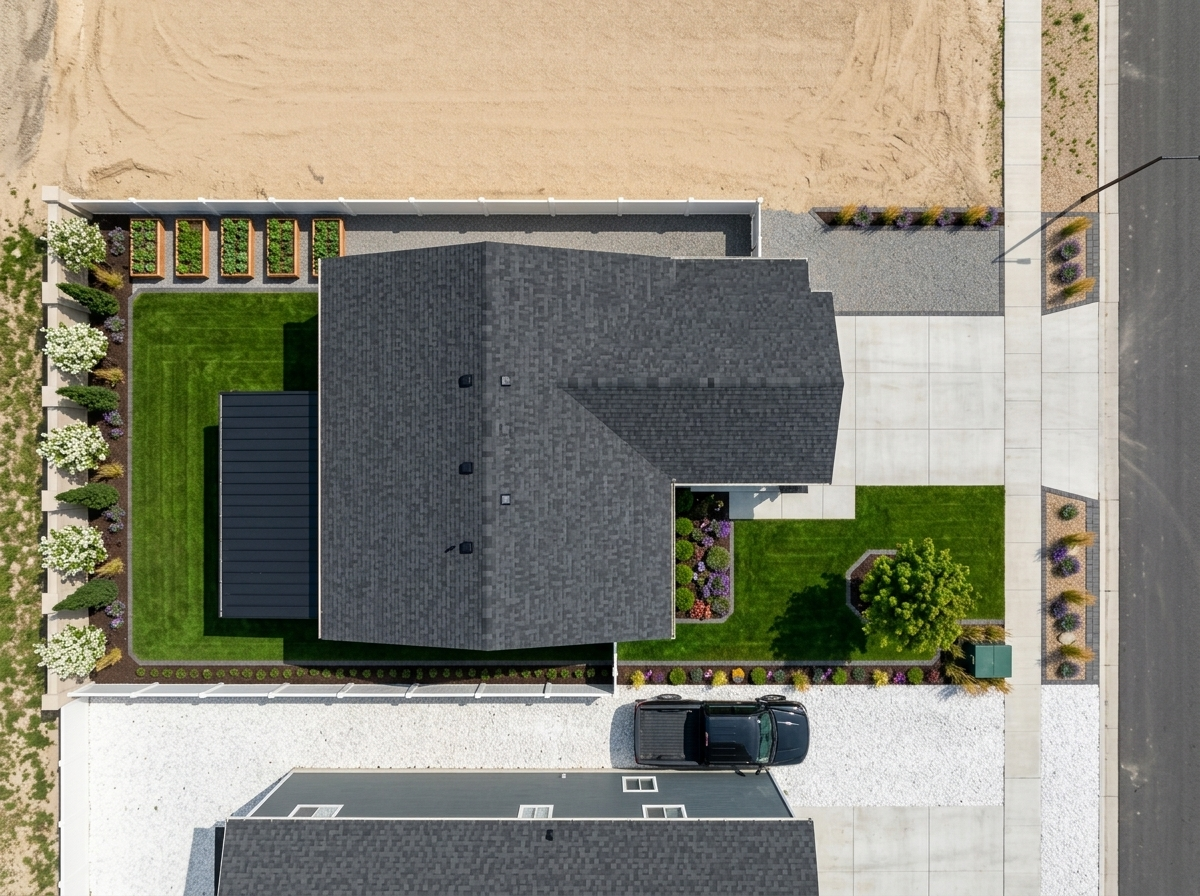
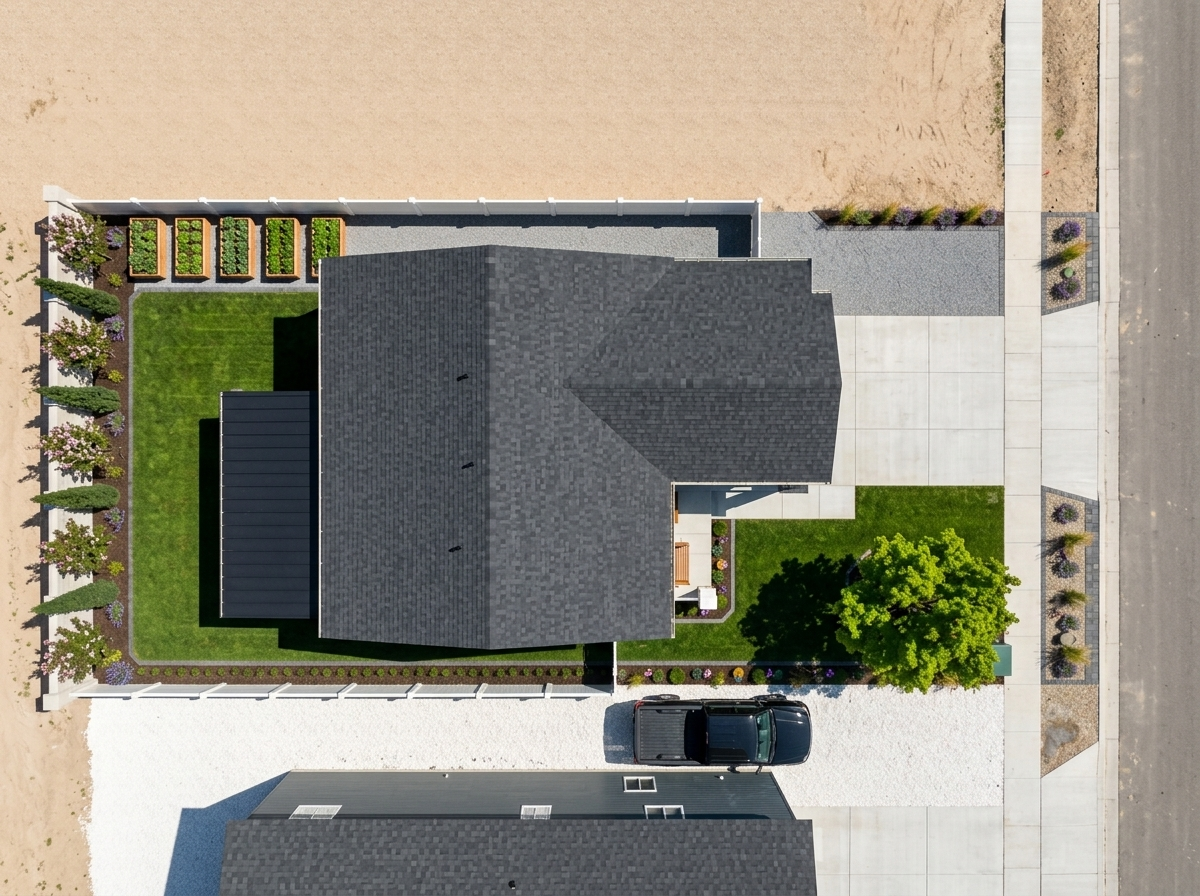
Refine Phase 4 Renders #12 and #14 (unified mulch bed, grey limestone road base, remove streetlamp, expose porch sidewalk)

diff --git a/model_3d_3152.html b/model_3d_3152.html
@@ -1836,31 +1836,6 @@
       addBox(g, 106.7, 30.5, 108.7, 88.0, 0.0, 0.42, MAT.concrete, true, true);
       // East Street Asphalt Roadway (wx: 108.7..146.0 — completely clear of the 6.0' park strips at wx=100.7..106.7!)
       addBox(g, 108.7, -36.0, 146.0, 88.0, -0.02, 0.06, MAT.asphalt, false, true);
-
-      // Architectural Neighborhood Streetlamp at NE Street Corner (wx = 105.2', wy = -1.5') — Illuminates Street at Sunset & Night!
-      {
-        const poleGrp = new THREE.Group();
-        poleGrp.position.set(105.2, 0, -1.5);
-        const pole = new THREE.Mesh(new THREE.CylinderGeometry(0.14, 0.24, 16.5, 12), MAT.simpsonHardware);
-        pole.position.set(0, 8.25, 0);
-        pole.castShadow = true;
-        poleGrp.add(pole);
-        const mastArm = new THREE.Mesh(new THREE.CylinderGeometry(0.08, 0.11, 4.5, 8), MAT.simpsonHardware);
-        mastArm.position.set(2.0, 16.2, 0);
-        mastArm.rotation.z = -Math.PI / 2.2;
-        poleGrp.add(mastArm);
-        const luminaire = new THREE.Mesh(new THREE.BoxGeometry(1.1, 0.22, 0.55), MAT.simpsonHardware);
-        luminaire.position.set(4.1, 16.4, 0);
-        poleGrp.add(luminaire);
-        const streetLens = new THREE.Mesh(new THREE.BoxGeometry(0.85, 0.08, 0.42), MAT.archBulb);
-        streetLens.position.set(4.1, 16.28, 0);
-        poleGrp.add(streetLens);
-        const streetLight = new THREE.PointLight('#fde047', 0.0, 38, 1.4);
-        streetLight.position.set(4.1, 15.6, 0);
-        poleGrp.add(streetLight);
-        houseLightObjects.push({ light: streetLight, maxIntensity: 2.2 });
-        g.add(poleGrp);
-      }
     }
 
     // --- B. EXISTING BASELINE SANDY DIRT LOT & CONCRETE SURFACES ('existingConcrete' — 100% Aligned with Garage, Porch & Park Strips) ---

diff --git a/cad_architectural_blueprint_3152.html b/cad_architectural_blueprint_3152.html
@@ -1335,9 +1335,9 @@
         out.push(`<rect x="${porchRect.x}" y="${porchRect.y}" width="${porchRect.width}" height="${porchRect.height}" fill="${isDrone ? 'url(#drone-concrete)' : (isColor ? '#475569' : T.porchFill)}" stroke="${T.concreteStroke}" stroke-width="1.6"/>`);
 
         if (isDrone) {
-          const housePolyPts = projectPoly([[30.0, 9.0], [73.2, 9.0], [73.2, 29.0], [65.7, 29.0], [65.7, 41.0], [30.0, 41.0]]);
+          const housePolyPts = projectPoly([[30.0, 9.0], [73.2, 9.0], [73.2, 29.0], [59.7, 29.0], [59.7, 41.0], [30.0, 41.0]]);
           const westSlope = projectPoly([[30.0, 9.0], [38.0, 17.0], [38.0, 33.0], [30.0, 41.0]]);
-          const southSlope = projectPoly([[30.0, 41.0], [38.0, 33.0], [56.0, 33.0], [65.7, 41.0]]);
+          const southSlope = projectPoly([[30.0, 41.0], [38.0, 33.0], [56.0, 33.0], [59.7, 41.0]]);
           const northSlope = projectPoly([[30.0, 9.0], [73.2, 9.0], [65.0, 17.0], [38.0, 17.0]]);
           const ridgeMain1 = project(38.0, 25.0), ridgeMain2 = project(58.0, 25.0);
           out.push(`
